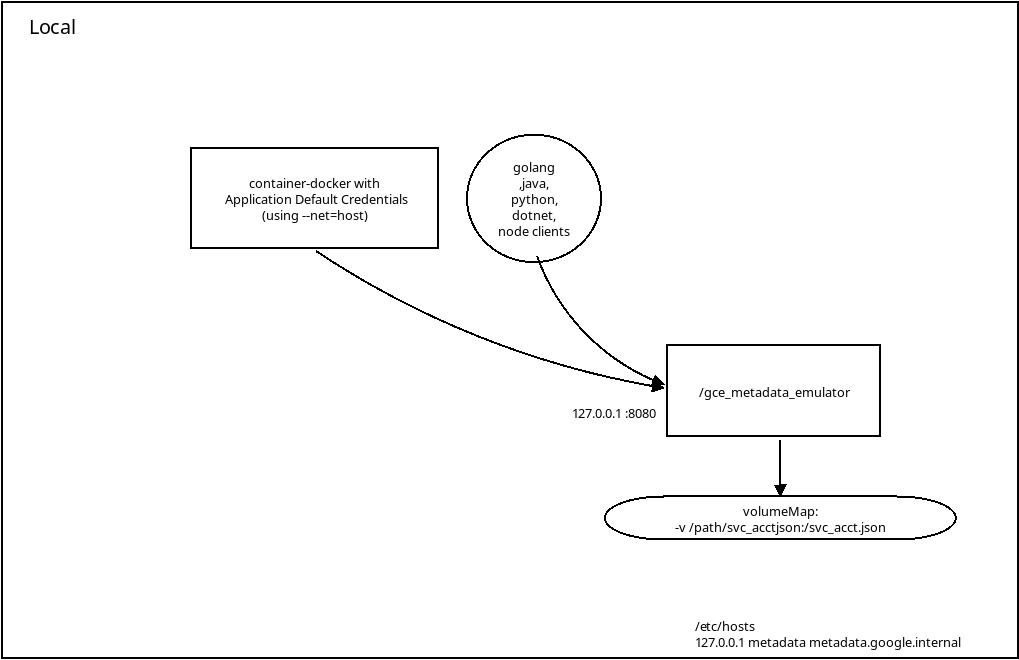
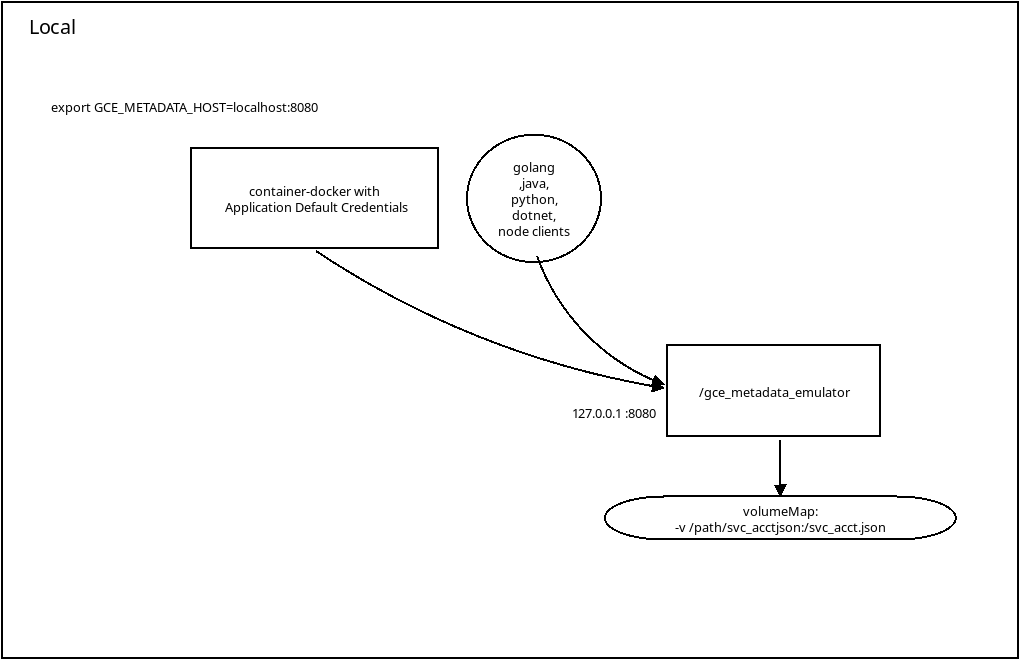
add gcloud cli

Changed region(s): [[0.213, 0.2727, 0.3955, 0.3333], [0.6693, 0.9394, 0.9431, 1.0], [0.0608, 0.1515, 0.3042, 0.1818]]

diff --git a/README.md b/README.md
@@ -314,14 +314,29 @@ Note, `Google.Api.Gax.Platform.Instance().ProjectId` requests the full [recursiv
 - ![images/setup_5.png](images/setup_5.png)
 
 
+#### gcloud
+
+```bash
+export GCE_METADATA_ROOT=localhost:8080
+
+$ gcloud config list
+[component_manager]
+disable_update_check = True
+[core]
+account = metadata-sa@mineral-minutia-820.iam.gserviceaccount.com
+project = mineral-minutia-820
+```
+
+`gcloud` uses a different env-var but if you want to use `gcloud auth application-default print-access-token`, you need to _also_ use `GCE_METADATA_HOST` and `GCE_METADATA_IP`
+
 
 ### IDToken
 
 The following endpoints shows how to acquire an IDToken
 
 ```bash
-curl -H "Metadata-Flavor: Google" \
-'http://metadata/computeMetadata/v1/instance/service-accounts/default/identity?audience=https://foo.bar'
+curl -H "Metadata-Flavor: Google" --connect-to metadata.google.internal:80:127.0.0.1:8080 \
+'http://metadata.google.internal/computeMetadata/v1/instance/service-accounts/default/identity?audience=https://foo.bar'
 ```
 
 The `id_token` will be signed by google but issued by the service account you used
